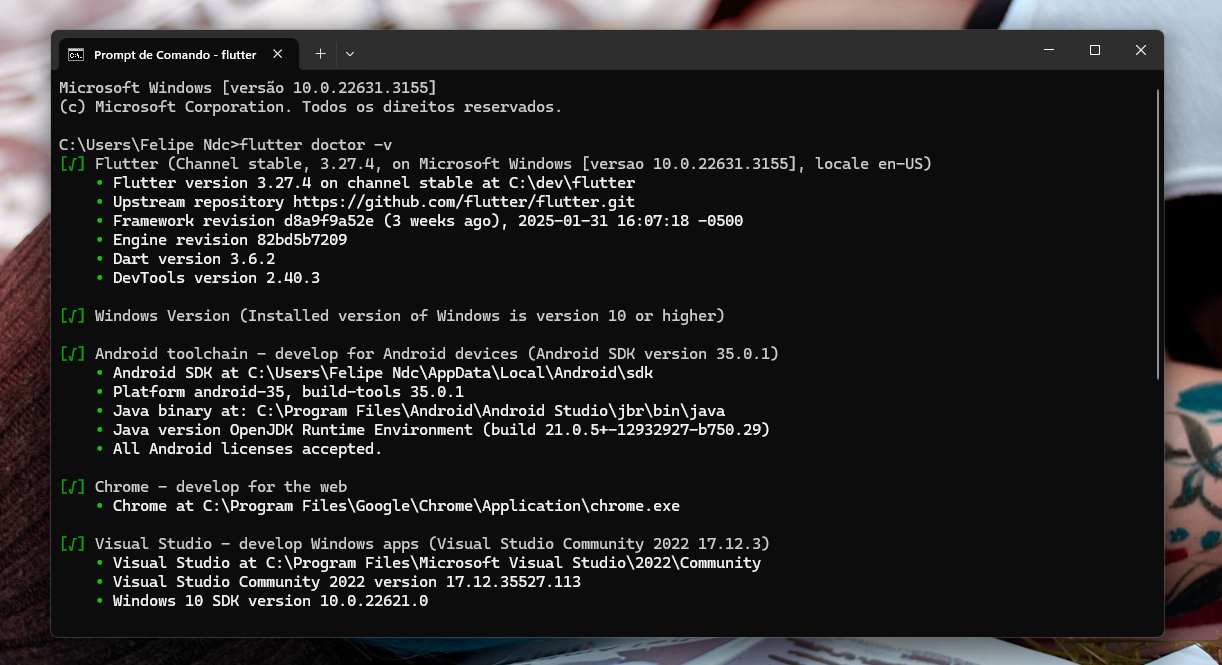
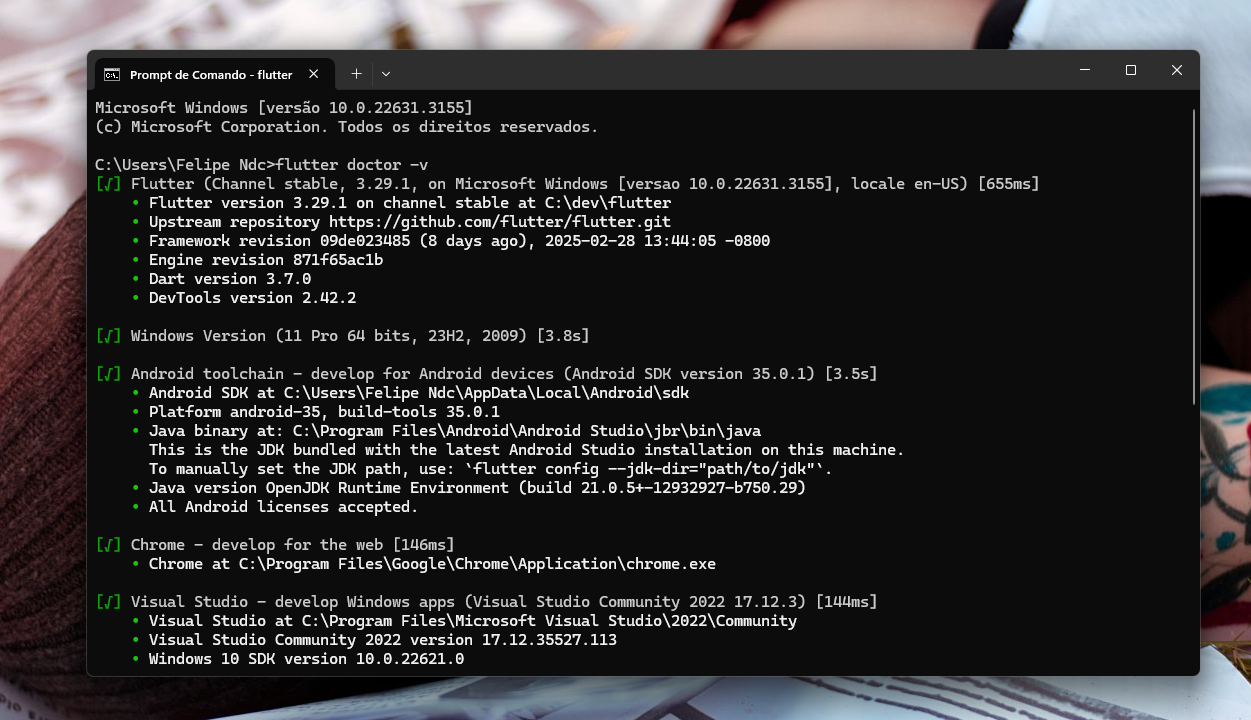
Roll  Flutter to 3.29.1 and Dart to 3.7.0

Changed region(s): [[0.0, 0.0, 1.0, 1.0]]

diff --git a/README.md b/README.md
@@ -6,7 +6,6 @@ A Flutter music streaming application that allows users to play audio files from
 
 Basic screenshots of the app to give users a visual preview of the Vicyos Music Player interface.
 
-
 <img src="https://github.com/felipendc/vicyos_music_player_flutter/blob/main/SCREENSHOTS_DEMO/read_banners/1.png">
 
  <br />
@@ -20,10 +19,11 @@ some podcasts `more precisely` for practicing English Listening.
 
  <br />
 
- ### Vicyos Music app related links:
- - Video demonstration: `https://youtu.be/kRfaoKFbTm4`
- - How to grant permissions: `https://youtube.com/shorts/eTfI_sFM0Xc?feature=share`
- - Download the Vicyos Music Apk: `https://github.com/felipendc/vicyos_music_player_flutter/releases`
+### Vicyos Music app related links:
+
+- Video demonstration: `https://youtu.be/kRfaoKFbTm4`
+- How to grant permissions: `https://youtube.com/shorts/eTfI_sFM0Xc?feature=share`
+- Download the Vicyos Music Apk: `https://github.com/felipendc/vicyos_music_player_flutter/releases`
 
  <br />
  
@@ -37,25 +37,22 @@ some podcasts `more precisely` for practicing English Listening.
 - Search for songs, add to play next, delete files, share songs, preview a song, and more!
 - Minimalistic and intuitive user interface.
 
-
 ### Getting Started
 
 These instructions will help you get a copy of this project up and running on your local machine for development and testing purposes.
 
-
 <img src="https://github.com/felipendc/vicyos_music_player_flutter/blob/main/SCREENSHOTS_DEMO/how-it-should-look-like_1.png">
 <img src="https://github.com/felipendc/vicyos_music_player_flutter/blob/main/SCREENSHOTS_DEMO/how-it-should-look-like_2.png">
 
-
 ### This project is currently compatible with:
 
-
 #### Java 21 (LTS):
+
 - Java Version: `21.0.6+7`
 - Azul Zulu: `21.40.17`
 - Link: https://www.azul.com/downloads/?version=java-21-lts&os=windows&architecture=x86-64-bit&package=jdk#zulu
 
-<!-- 
+<!--
 > If you run flutter doctor and get this error:  <br />
 > [!] Android Studio, X Unable to determine bundled Java version. <br />
 >
@@ -65,6 +62,7 @@ These instructions will help you get a copy of this project up and running on yo
 -->
 
 #### Android Studio:
+
 - Android Studio Meerkat | `2024.3.1 RC 2 February 18, 2025`
 - ChromeOS: `android-studio-2024.3.1.12-cros.deb (1.1 GB)`
 - Mac (Apple Silicon): `android-studio-2024.3.1.12-mac_arm.dmg (1.3 GB)`
@@ -73,32 +71,27 @@ These instructions will help you get a copy of this project up and running on yo
 - LINK: https://developer.android.com/studio/archive
 - Flutter plugin for Android Studio: https://plugins.jetbrains.com/plugin/9212-flutter
 
+#### Flutter 3.29.1:
 
-
-#### Flutter 3.27.4:
 - Channel: `Stable`
-- Flutter version: `3.27.4 x64`
-- Dart version: `3.6.2 (stable) (05/02/2025) for "windows_x64"`
-- File name:  `flutter_windows_3.27.4-stable.zip` 
+- Flutter version: `3.29.1 x64`
+- Dart version: `3.7.0 (stable) (2025-02-28) for "windows_x64"`
+- File name: `flutter_windows_3.29.1-stable.zip`
 - LINK: https://docs.flutter.dev/release/archive
 - How to install Flutter and set it up: https://flutter.dev/docs/get-started/install
-
 
 #### Git for Windows:
 
 - Git for Windows: https://gitforwindows.org/
 
-
 #### Visual Studio Code:
 
 - Visual Studio - develop Windows apps (Visual Studio Community): https://visualstudio.microsoft.com/pt-br/
 
-
 #### VS Code:
 
 - Visual Studio Code: https://code.visualstudio.com/
-- Flutter extension for VS Code: https://marketplace.visualstudio.com/items?itemName=Dart-Code.flutter 
-
+- Flutter extension for VS Code: https://marketplace.visualstudio.com/items?itemName=Dart-Code.flutter
 
 ##
 
@@ -106,6 +99,7 @@ These instructions will help you get a copy of this project up and running on yo
 
 Clone this repository: `git clone https://github.com/felipendc/vicyos_music_player_flutter.git` <br />
 Navigate to the project directory: `cd vicyos_music_player_flutter` <br />
+
 <!-- Choose the one you want "GetX" or "StreamBuilder" UI state management. <br /> -->
 
 ### Installing or Compiling
@@ -148,15 +142,13 @@ This project uses the following dependencies:
 - `flutter_media_delete 1.0.1` TA Flutter plugin designed for deleting media files using scoped storage on Android versions Q (API 29) and above.
 - `loading_animation_widget 1.3.0` Loading animation or loading spiner or loader. It's used to show loading animation when the app is in loading state or something is processing for uncertain time.
 
-
 ### Submit a pull request
+
 1. Fork the project.
 2. Create your feature branch: `git checkout -b feature/new-feature`
 3. Commit your changes: `git commit -am 'Add a new feature'`
 4. Push to the branch: `git push origin feature/new-feature`
 5. Open a pull request.
-
-
 
 ### Acknowledgments
 
@@ -165,9 +157,7 @@ This project uses the following dependencies:
 - [svgrepo:](https://www.svgrepo.com/), [flaticon:](https://www.flaticon.com/), [Google Fonts:](https://fonts.google.com/icons), and [icons8:](https://icons8.com.br/) for the Icons.
 - [logrocket:](https://blog.logrocket.com/flutter-slider-widgets-deep-dive-with-examples/) for the volume slider theme.
 
-
-
-### Vicyos Music Player Screenshots 
+### Vicyos Music Player Screenshots
 
 <img src="https://github.com/felipendc/vicyos_music_player_flutter/blob/main/SCREENSHOTS_DEMO/read_banners/11.png">
 <img src="https://github.com/felipendc/vicyos_music_player_flutter/blob/main/SCREENSHOTS_DEMO/read_banners/12.png">
@@ -181,6 +171,3 @@ This project uses the following dependencies:
 <img src="https://github.com/felipendc/vicyos_music_player_flutter/blob/main/SCREENSHOTS_DEMO/read_banners/8.png">
 <img src="https://github.com/felipendc/vicyos_music_player_flutter/blob/main/SCREENSHOTS_DEMO/read_banners/9.png">
 <img src="https://github.com/felipendc/vicyos_music_player_flutter/blob/main/SCREENSHOTS_DEMO/read_banners/10.png">
-
-
-
